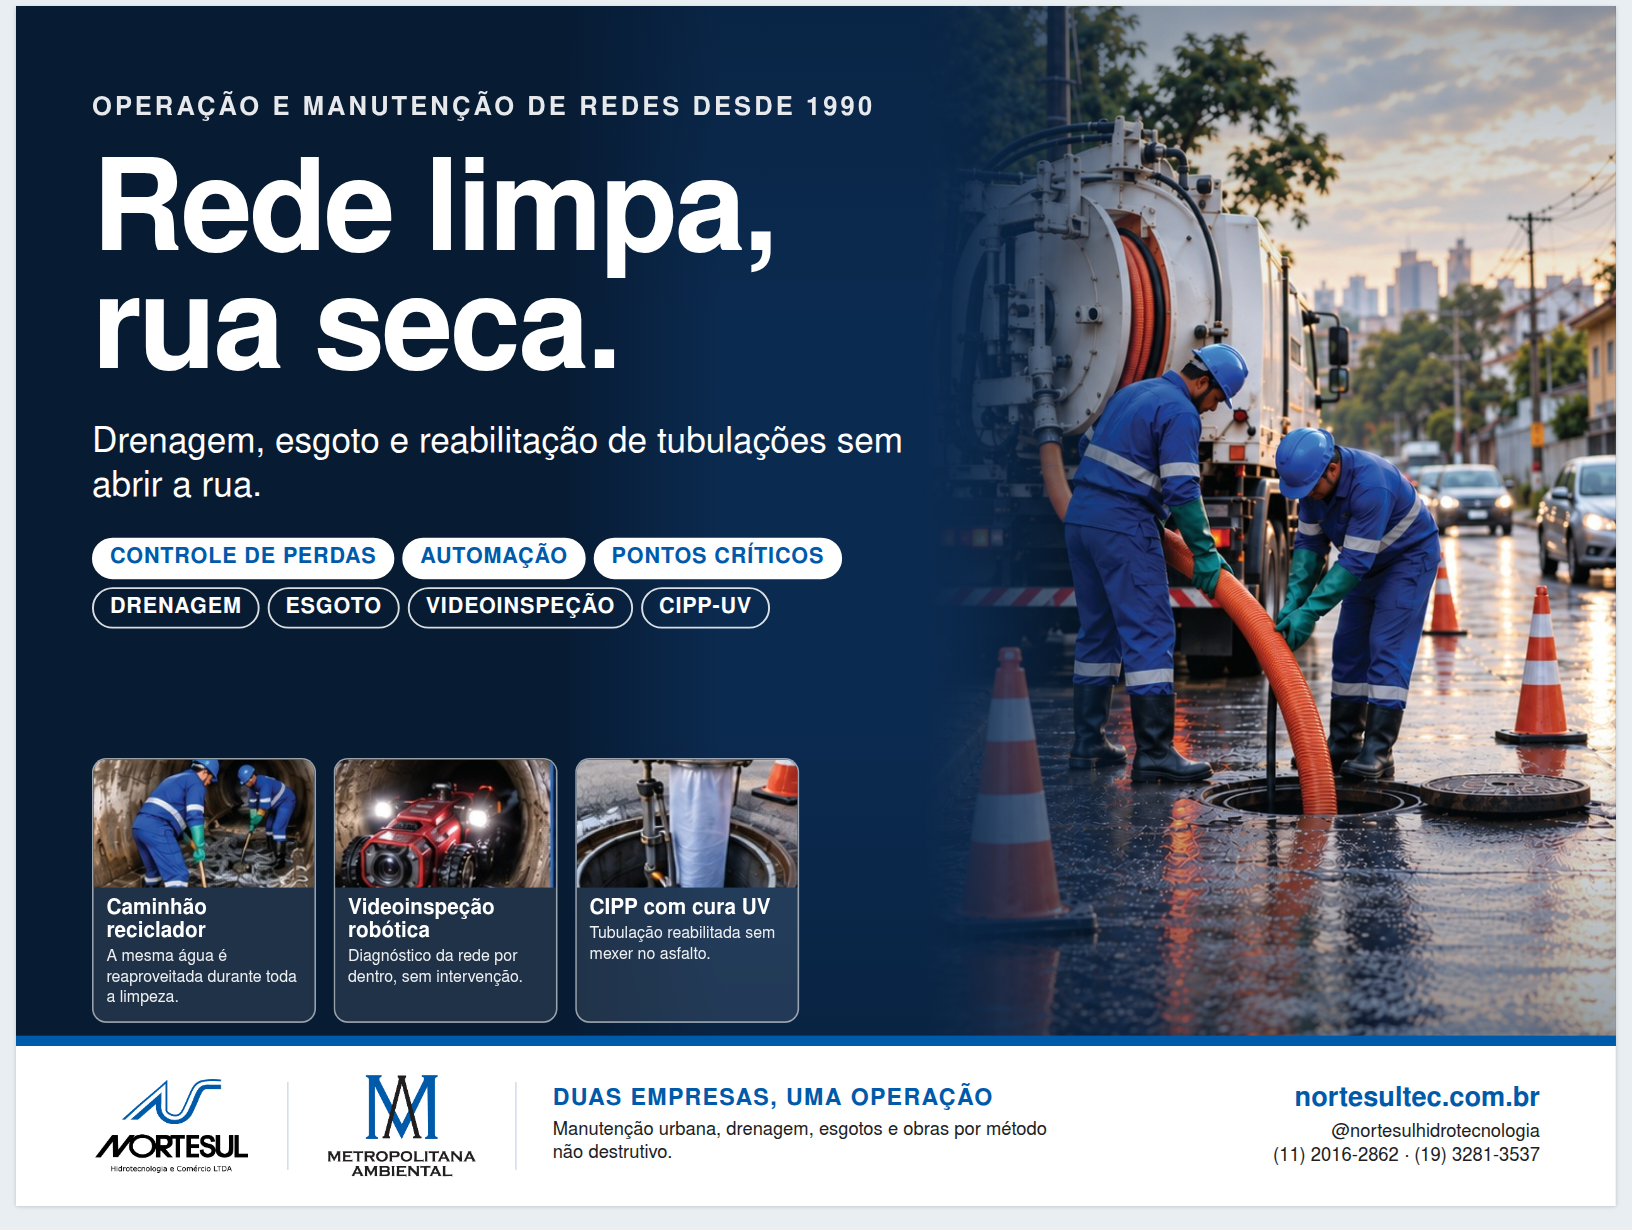
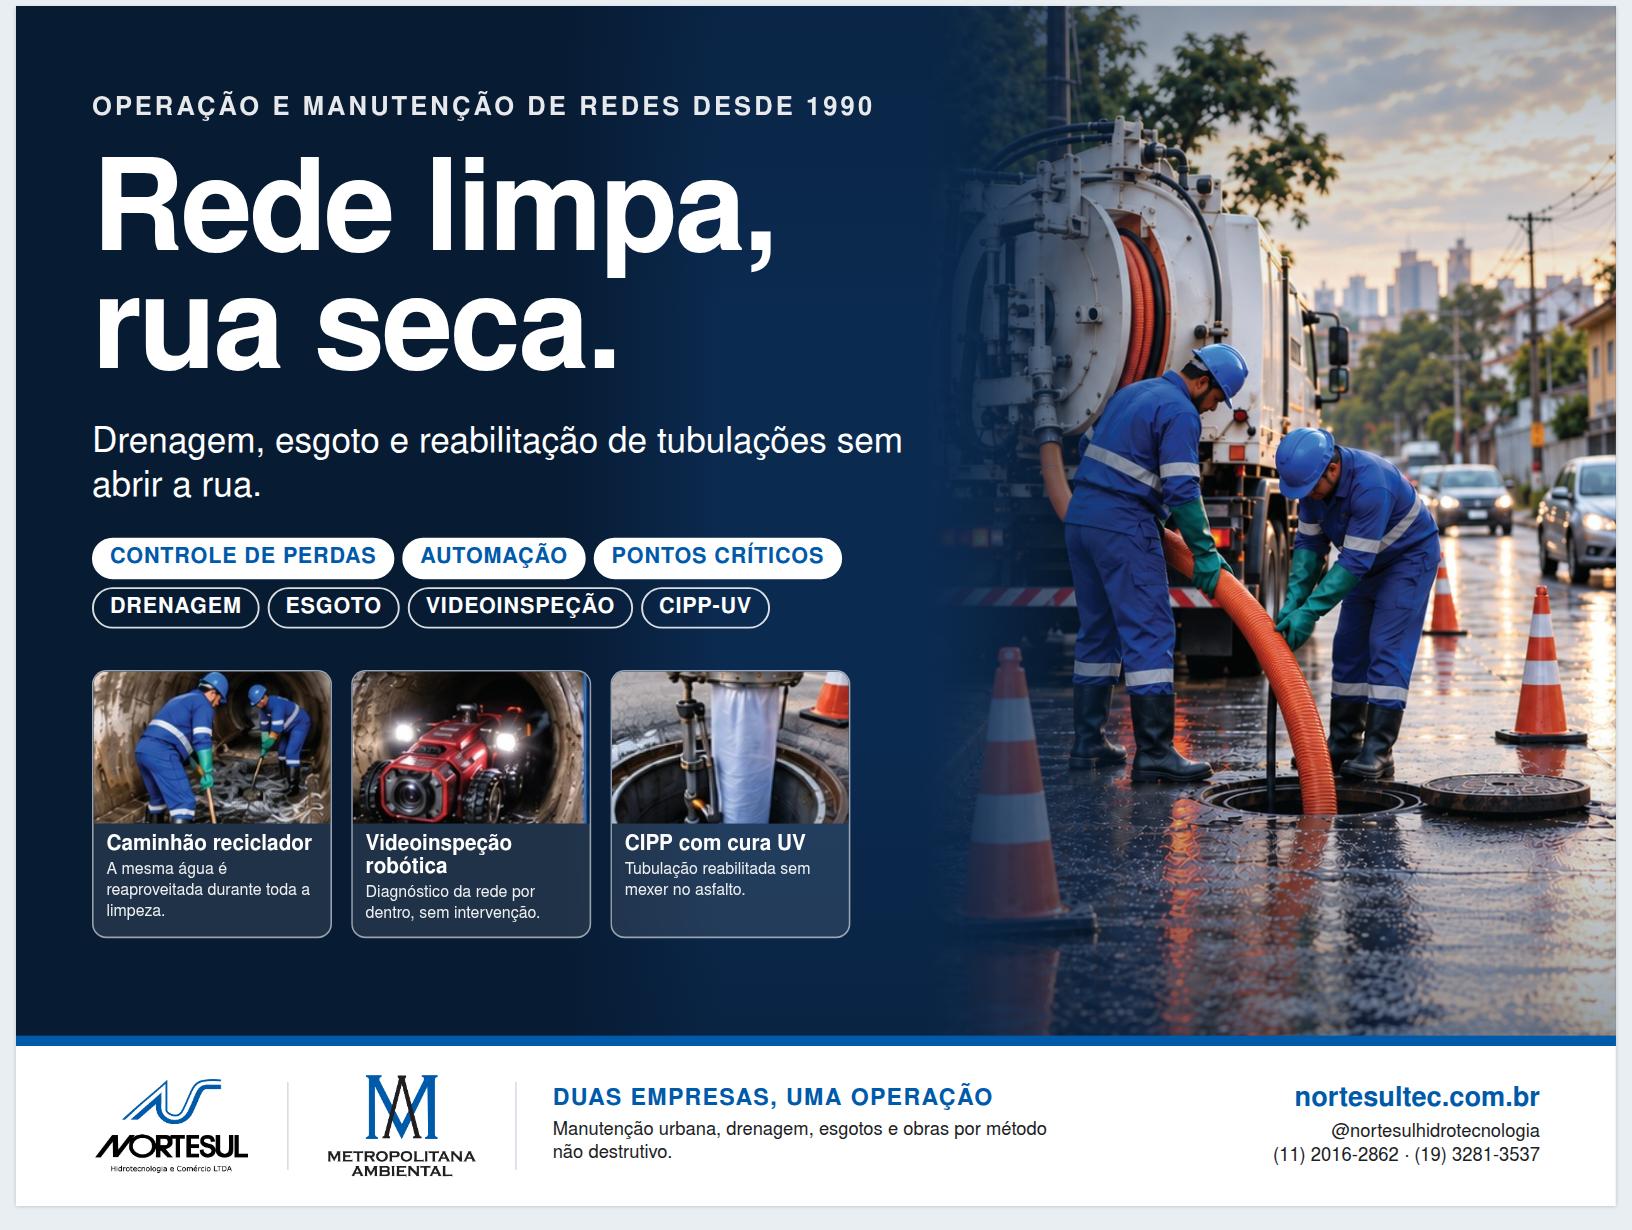
Stand: cartões mais altos e maiores
Claude-Session: https://claude.ai/code/session_019UKDqx9VshcyuwTFbJxj3E

Changed region(s): [[0.0312, 0.5252, 0.5312, 0.8341]]

diff --git a/stand/Stand-NorteSul-4x3m.html b/stand/Stand-NorteSul-4x3m.html
@@ -42,9 +42,9 @@ h1{margin:30mm 0 0;font-size:320mm;line-height:.92;font-weight:700;letter-spacin
 .chip.hi{background:var(--branco);color:var(--azul);border-color:var(--branco)}
 
 /* cartões */
-.cards{position:absolute;left:190mm;top:1880mm;display:flex;gap:44mm}
-.card{width:560mm;background:rgba(255,255,255,.10);border:4mm solid rgba(255,255,255,.55);border-radius:36mm;overflow:hidden;color:#fff;backdrop-filter:blur(6mm)}
-.card img{display:block;width:100%;height:320mm;object-fit:cover}
+.cards{position:absolute;left:190mm;top:1660mm;display:flex;gap:48mm}
+.card{width:600mm;background:rgba(255,255,255,.10);border:4mm solid rgba(255,255,255,.55);border-radius:36mm;overflow:hidden;color:#fff;backdrop-filter:blur(6mm)}
+.card img{display:block;width:100%;height:380mm;object-fit:cover}
 .card .t{padding:26mm 32mm 30mm;display:flex;flex-direction:column;gap:8mm}
 .card b{font-size:52mm;line-height:1.1}
 .card span{font-size:40mm;line-height:1.3;opacity:.92}
